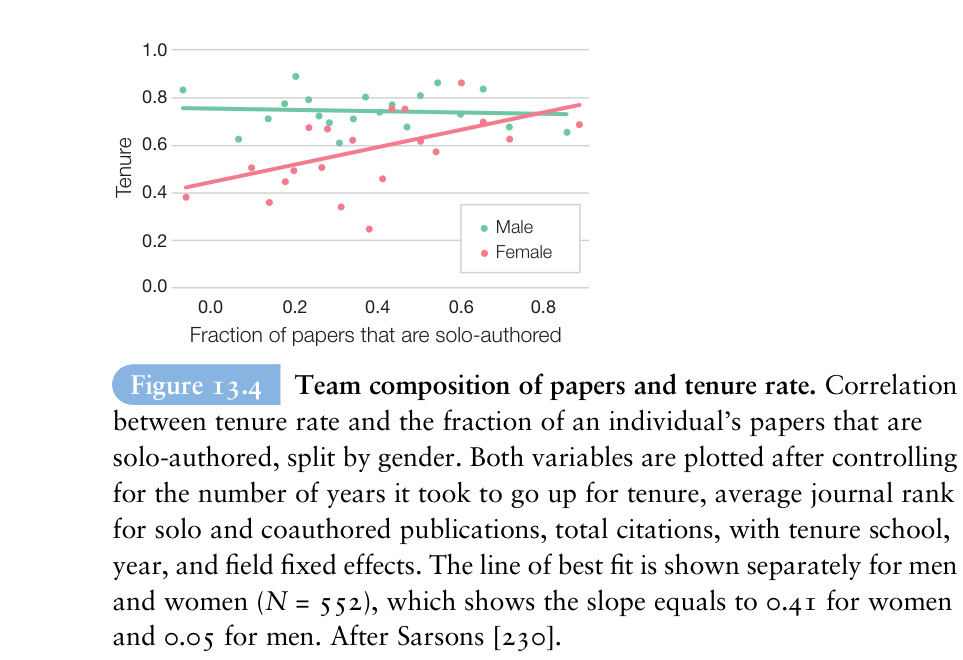
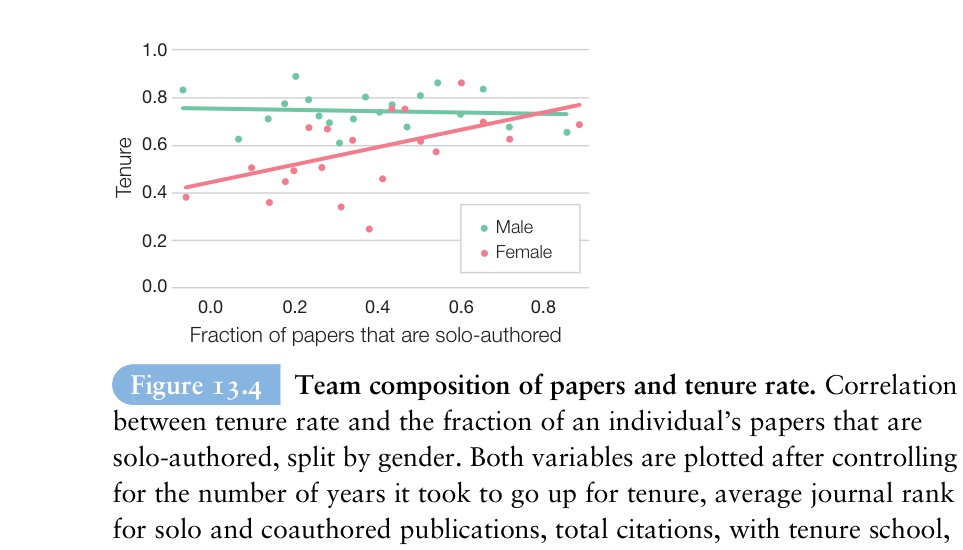
fix(unit06-figures): crop captions from all figures and fully transcribe structured analysis into notes

diff --git a/wiki/arguments/books/Wang_Barabasi_2021_Cambridge/Argument_Wang_Barabasi_2021_Cambridge_Unit06.md b/wiki/arguments/books/Wang_Barabasi_2021_Cambridge/Argument_Wang_Barabasi_2021_Cambridge_Unit06.md
@@ -137,7 +137,11 @@ updated: 2026-10-31
 
 > [!figure]- 图13-1：诺贝尔奖多合署人成果中的排位分布
 > ![](https://img.mylikemie.icu/books/Wang_Barabasi_2021_Cambridge/figures/Figure_13-1_Who_Gets_the_Nobel.jpg)
-> *诺贝尔奖多学者成果中的署名位次分布。（a）David J. Wineland 凭借量子计算领域的贡献荣获 2012 年诺贝尔物理学奖，在获奖成果中位居末位通讯学者；（b）Steven Chu 因激光冷却与捕获原子技术荣获 1997 年诺贝尔物理学奖，在成果中位列第一署名者；（c）Albert Fert 因发现巨磁电阻效应荣获 2007 年诺贝尔物理学奖，在成果中处于中间位次署名。三项成果均发表于顶级物理学期刊《物理评论快报》（Physical Review Letters, PRL），证实无法仅凭署名排位机械推断诺贝尔奖归属（p. 136）。*
+> *诺贝尔物理学奖在多学者合署代表作中的获奖者排位异质性（pp. 136–137）：*
+> - **(a) 末位署名者获奖** 大卫·瓦恩兰（David J. Wineland）因量子计算领域的离子阱非经典运动态奠基突破荣获 2012 年诺贝尔物理学奖，在 1996 年代表作中署名位列末位通讯学者；
+> - **(b) 第一署名者获奖** 朱棣文（Steven Chu）因激光冷却与捕获原子技术荣获 1997 年诺贝尔物理学奖，在 1985 年代表作中位列第一署名位次；
+> - **(c) 中间位次署名者获奖** 阿尔贝·费尔（Albert Fert）因发现巨磁电阻效应（GMR）荣获 2007 年诺贝尔物理学奖，在 1988 年 9 位学者合署的代表作中居于中间第三位。
+> - **署名行信息不对称困境** 三项代表作均发表于同一顶级期刊《物理评论快报》（*Physical Review Letters*），证实仅凭期刊署名位次完全无法稳定推断团队内部的核心智力贡献归属（p. 136）。
 
 ---
 
@@ -145,7 +149,9 @@ updated: 2026-10-31
 
 > [!figure]- 图13-2：不同位次署名者的实际贡献分布
 > ![](https://img.mylikemie.icu/books/Wang_Barabasi_2021_Cambridge/figures/Figure_13-2_Author_Contributions_in_a_Paper.jpg)
-> *署名位次与实际贡献维度的经验对应规律。（a）不同位次成员在实验操作、数据分析、数据搜集、文稿起草与实验构想等六大分项上的参与频次分布；（b）学者平均参与分项数量随团队规模与位次排序的变化曲线。实证数据显示，第一署名者深度参与实验全流程，末位通讯学者主要承担实验构想与文稿指导，中间排位人员的贡献广度均处于较低水平且彼此差异微弱 (Corrêa et al., 2017, p. 138)。*
+> *基于贡献自述声明检验署名位次与实际分工维度的经验对应规律（Corrêa et al., 2017; pp. 138–139）：*
+> - **(a) 分工维度的位次差异** 各排位合署人在实验操作、数据分析、数据搜集、文稿起草与实验构想等分项上的参与频次分布；第一署名者深度参与几乎全部环节，末位通讯学者主要承担实验构想与文稿终审指导；
+> - **(b) 贡献广度随团队规模与位次的衰减曲线** 学者平均参与分项数量随署名位次排序的变化特征；无论团队规模多大，第一署名者贡献分项始终最高，末位学者通常位居第二；第二署名者居中，而第三及后续排位学者的贡献广度均处于较低水平且相互之间缺乏统计可分性，证实自然科学中首位与末位署名者享有绝对主导分工（pp. 138–139）。
 
 > [!contrast-table] 署名位次与科研具体分工映射表
 > | 署名位次 | 典型承担职能 | 在贡献自述中的统计表现 | 同行评议中的信号功能 |
@@ -215,7 +221,10 @@ updated: 2026-10-31
 
 > [!figure]- 图13-4：经济学教员独立论著比例与终身教职通过率的性别分化
 > ![](https://img.mylikemie.icu/books/Wang_Barabasi_2021_Cambridge/figures/Figure_13-4_Team_Composition_and_Tenure_Rate.jpg)
-> *终身教职通过率与独立署名论著占比的分性别回归曲线。在控制晋升耗时、期刊层级排名、总被引频次以及院校、年份与领域固定效应后，独立署名论著占比对女性终身教职获得率的拟合斜率高达 0.41，而男性仅为 0.05。女性独立发表享有与男性完全对等的晋升成功率，但只要参与团队合著，其职业晋升概率便遭遇显著折损 (Sarsons, 2017, p. 145)。*
+> *终身教职通过率与独立署名论著占比的分性别回归估计（Sarsons, 2017; pp. 144–145）：*
+> - **计量模型与控制变量** 针对全美顶尖经济学系 552 名教员（$N = 552$）进行回归分析，严格控制晋升耗时、期刊层级排名、总被引频次以及任职院校、年份与研究领域固定效应；
+> - **性别拟合斜率的悬殊分化** 独立论著占比对女性终身教职获得率的拟合斜率高达 0.41，而男性仅为 0.05（接近水平线）；女性单兵独立发表享有与男性完全持平的晋升概率，但只要参与团队合署，晋升回报便遭遇断崖式折损；
+> - **字母序制度的归因惩罚** 在经济学按姓氏字母署名的制度惯例下，缺乏分工线索诱发评审专家默认将合作贡献归因于男性，导致女性学者在跨性别合署中难以获取学术晋升信用（p. 145）。
 
 > [!contrast-table] 经济学终身教职评审中的合作回报性别分化实证
 > | 论著发表形态 | 男性学者晋升概率变动 | 女性学者晋升概率变动 | 评审委员会隐性认知归因 |
@@ -260,11 +269,17 @@ updated: 2026-10-31
 
 > [!figure]- 图14-1：1984 年诺贝尔物理学奖 W 与 Z 玻色子发现论著
 > ![](https://img.mylikemie.icu/books/Wang_Barabasi_2021_Cambridge/figures/Figure_14-1_Nobel_Prize_in_Physics_1984.jpg)
-> *1984 年诺贝尔物理学奖获奖成果首页截图。该项研究报告了 W 和 Z 弱相互作用玻色子的发现，署名名单包含按姓氏字母顺序排列的 135 位物理学家；诺贝尔评奖委员会跨越漫长的字母序名单，精准将奖项授予卡洛·鲁比亚（Carlo Rubbia）与西蒙·范德梅尔（Simon van der Meer）两人，展现了科学共同体依据深厚领域知识进行隐性声誉遴选的能力（pp. 151–153）。*
+> *弱相互作用中间玻色子发现成果首页与学者署名排位（pp. 151–153）：*
+> - **超大团队的字母序全景** 欧洲核子研究中心（CERN）UA1 国际合作组发表于《物理快报 B》（*Physics Letters B*）的代表作，宣布实验观测到 W 与 Z 玻色子；署名名单包含按姓氏字母顺序严格排列的 135 位物理学家（从 Arnison 一直排至 Zurfluh）；
+> - **诺奖委员会跨越名单的精准遴选** 1984 年诺贝尔物理学奖评委会跨越漫长的 135 人名单，精准将奖项共同授予卡洛·鲁比亚（Carlo Rubbia，排在第 106 位）与西蒙·范德梅尔（Simon van der Meer，排在第 127 位），表彰两人对引导大型对撞工程发现 W 与 Z 玻色子所作出的决定性贡献；
+> - **共同体隐性认知的遴选效能** 这一历史范例证实，即便在大规模字母序团队制造的分工信息真空下，科学共同体依然能够凭借深厚的同行默会知识精确遴选出核心智力主导者（pp. 151–153）。
 
 > [!figure]- 图14-2：科学中的集体声誉分配极值案例
 > ![](https://img.mylikemie.icu/books/Wang_Barabasi_2021_Cambridge/figures/Figure_14-2_Collective_Credit_Allocation_in_Science.jpg)
-> *集体声誉分配的两种极端图景。（a）非对称成果库：Peter 仅参与了代表作 $p_0$，而 Mary 围绕该主题发表了多篇持续被共引的成果，共同体将绝大部分声誉赋予 Mary；（b）根岸英一（Ei-ichi Negishi）与马场繁（Shigeru Baba）1976 年诺奖级成果，马场仅参与该项研究，根岸后续发表多篇高引成果，最终根岸独享 2010 年诺贝尔化学奖；（c）对称合著网络：安德烈·海姆（Andre Geim）与康斯坦丁·诺沃肖洛夫（Konstantin Novoselov）联合发表了石墨烯领域几乎全部高引文献，两人平分声誉并共享 2010 年诺贝尔物理学奖 (Shen & Barabási, 2014, p. 152)。*
+> *同行共引拓扑下的集体声誉分配机制与极端案例比对（Shen & Barabási, 2014; p. 152）：*
+> - **(a) 非对称知识库模型** 目标成果 $p_0$ 包含红、绿两位合署学者；绿学者（Peter）仅参与了 $p_0$ 一项工作，而红学者（Mary）围绕该主题持续发表了多篇被高频共引的关联成果 $\{p_1, \dots, p_4\}$；科学共同体在共引网络中自发将绝大部分声誉配置给红学者；
+> - **(b) 根岸英一与马场繁的非对称分配实证** 根岸英一（Ei-ichi Negishi）与马场繁（Shigeru Baba）1976 年联合发表了诺奖级代表作；马场此后离开该研究领域，而根岸后续独立产出了一系列高引关联成果，并与 1976 年论著高频共引；共同体引文将声誉几乎全数赋予根岸，最终根岸独享 2010 年诺贝尔化学奖；
+> - **(c) 诺沃肖洛夫与海姆的对称合署网络实证** 康斯坦丁·诺沃肖洛夫（Konstantin Novoselov）与安德烈·海姆（Andre Geim）联合发表了石墨烯奠基成果后，长期深度协作并共同署名了该课题下几乎全部高频共引的核心论著；对称的合署网络促成共同体将声誉对半平分，两人共享 2010 年诺贝尔物理学奖（p. 152）。
 
 > [!formula] 集体贡献分配算法的核心数学模型与矩阵推导
 > [[Hua-Wei Shen|沈华伟]]与[[Albert-László Barabási|艾伯特－拉斯洛·巴拉巴西]]（Shen & Barabási, 2014）将科学界对合作成果的隐性评价过程形式化为图计算模型：
